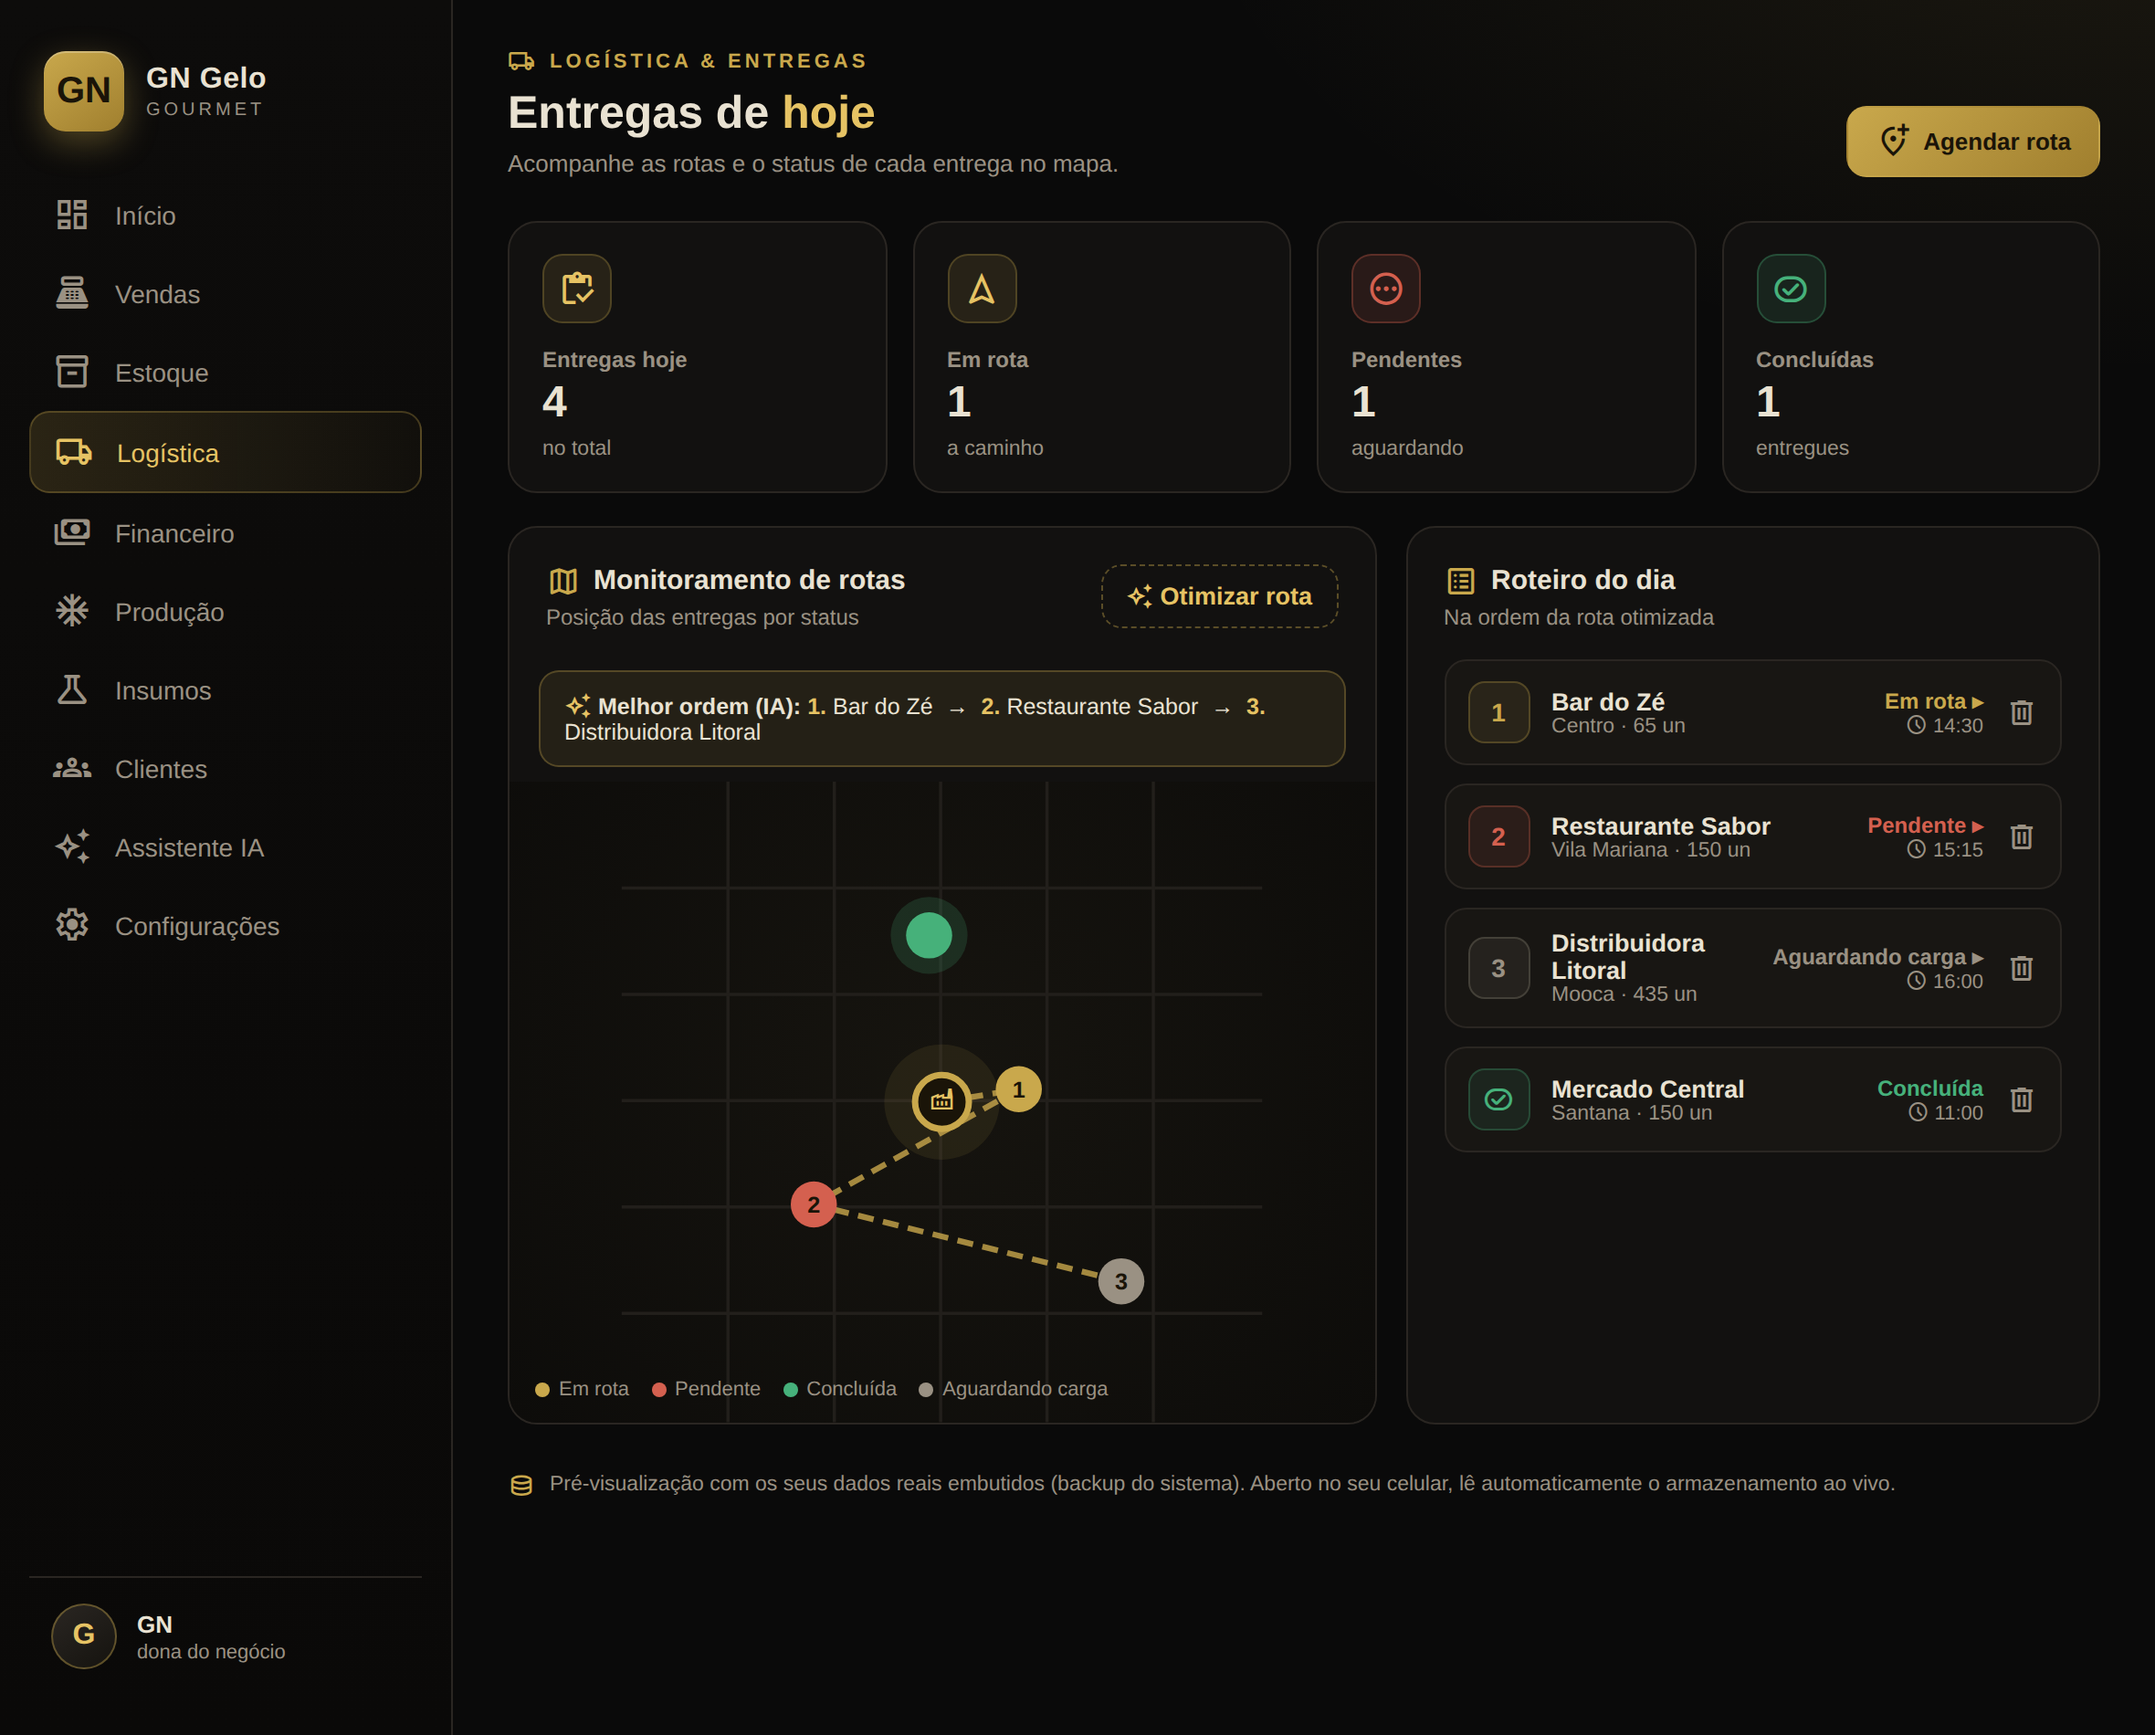
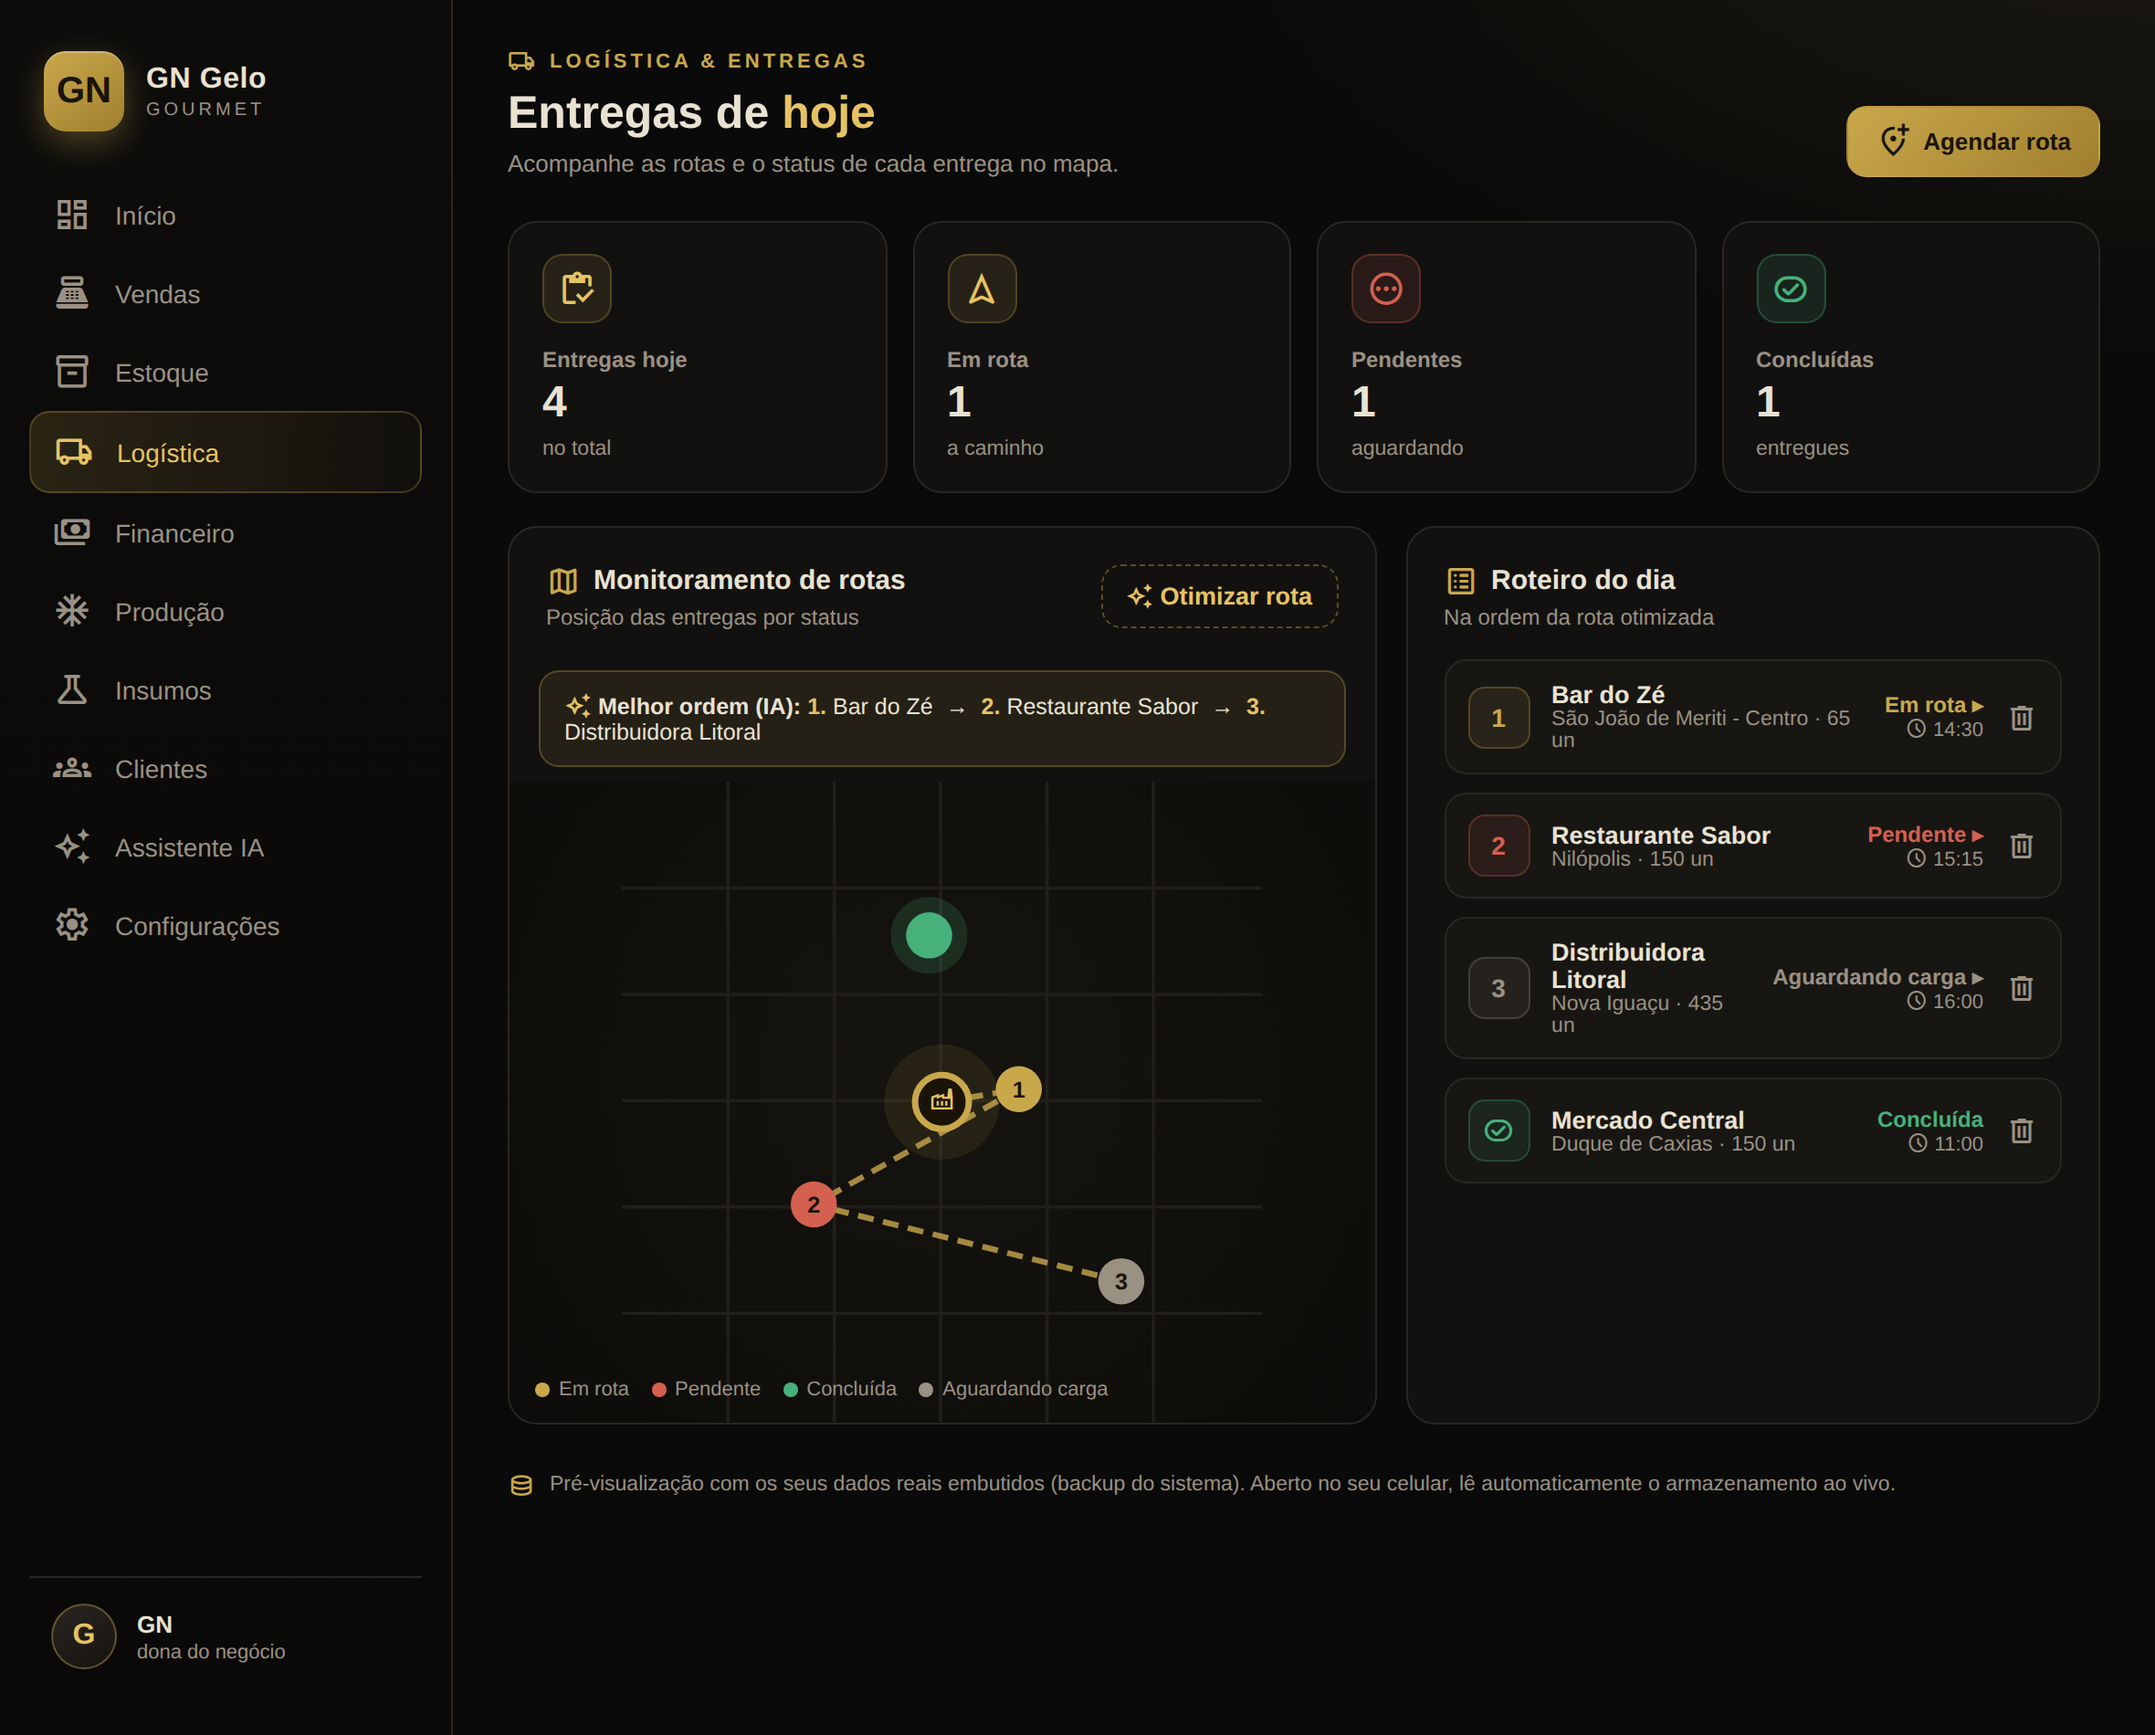
Deposito real: Rua Gama Cruz, Sao Joao de Meriti (RJ) + entregas exemplo na Baixada
- DEPOT_ADDR com o endereco do deposito do GN Gelo; geocodifica no aparelho na
  1a abertura (cacheado em gng_depotLL). Ponto inicial: Sao Joao de Meriti.
- Entregas de exemplo movidas para a regiao (Meriti, Nilopolis, Caxias, Nova Iguacu).

Claude-Session: https://claude.ai/code/session_01RocrFdSgqpqjfRy7x3VDmm

diff --git a/preview-dashboard-premium.html b/preview-dashboard-premium.html
@@ -669,10 +669,10 @@ const SEED={
   "Embalagens":{qtd:5500,un:"un",custoUnit:0.1600,forn:"Shoppe"}
  },
  entregas:[
-  {id:"#ORD-8942",cliente:"Bar do Zé",rota:"Centro",eta:"14:30",status:"Em rota",itens:65,x:62,y:48,lat:-23.5489,lng:-46.6388},
-  {id:"#ORD-8943",cliente:"Restaurante Sabor",rota:"Vila Mariana",eta:"15:15",status:"Pendente",itens:150,x:30,y:66,lat:-23.5893,lng:-46.6340},
-  {id:"#ORD-8945",cliente:"Mercado Central",rota:"Santana",eta:"11:00",status:"Concluída",itens:150,x:48,y:24,lat:-23.5060,lng:-46.6280},
-  {id:"#ORD-8946",cliente:"Distribuidora Litoral",rota:"Mooca",eta:"16:00",status:"Aguardando carga",itens:435,x:78,y:78,lat:-23.5580,lng:-46.5990}
+  {id:"#ORD-8942",cliente:"Bar do Zé",rota:"São João de Meriti - Centro",eta:"14:30",status:"Em rota",itens:65,x:62,y:48,lat:-22.8035,lng:-43.3720},
+  {id:"#ORD-8943",cliente:"Restaurante Sabor",rota:"Nilópolis",eta:"15:15",status:"Pendente",itens:150,x:30,y:66,lat:-22.8085,lng:-43.4140},
+  {id:"#ORD-8945",cliente:"Mercado Central",rota:"Duque de Caxias",eta:"11:00",status:"Concluída",itens:150,x:48,y:24,lat:-22.7850,lng:-43.3110},
+  {id:"#ORD-8946",cliente:"Distribuidora Litoral",rota:"Nova Iguaçu",eta:"16:00",status:"Aguardando carga",itens:435,x:78,y:78,lat:-22.7590,lng:-43.4510}
  ],
  equipe:[
   {nome:"GN (você)",email:"gn@gngelo.app",papel:"Administrador",area:"Dono(a)",status:"Ativo"},
@@ -1017,7 +1017,14 @@ const ST_COR={"Em rota":"#C9A84C","Pendente":"#d4604f","Concluída":"#46b17b","A
 const ST_IC={"Em rota":"navigation","Pendente":"pending","Concluída":"task_alt","Aguardando carga":"hourglass_top"};
 /* IA de rota: melhor ordem de entrega (vizinho mais próximo a partir do depósito) */
 var rotaOtim=null;
-var DEPOT=[-23.5505,-46.6333]; // local do depósito (ajustável); usado no mapa real
+// Depósito real do GN Gelo (geocodificado no aparelho na 1ª abertura)
+var DEPOT_ADDR="Rua Gama Cruz, Praça do Cruzeiro, São João de Meriti, RJ, 25571-220";
+var DEPOT=get("depotLL",null)||[-22.7956,-43.3729]; // ponto inicial: São João de Meriti
+async function ensureDepot(){
+  if(get("depotLL",null))return;            // já buscado antes
+  const g=await geocode(DEPOT_ADDR);
+  if(g){ DEPOT=g; set("depotLL",g); if(document.getElementById("view-logistica")) renderLogistica(); }
+}
 function _dist(a,b){ if(a.lat!=null&&b.lat!=null){const dx=a.lat-b.lat,dy=a.lng-b.lng;return dx*dx+dy*dy;} return (a.x-b.x)**2+(a.y-b.y)**2; }
 function otimizarRota(){
   const pend=getEnt().filter(e=>e.status!=="Concluída" && (e.x!=null||e.lat!=null));
@@ -1437,6 +1444,7 @@ document.querySelectorAll("nav a").forEach(a=>a.addEventListener("click",()=>sho
 render(); renderVendas(); renderEstoque(); renderLogistica(); renderFinanceiro(); renderProducao(); renderInsumos(); renderClientes(); renderIA(); renderConfig();
 const _qv=new URLSearchParams(location.search).get("v");
 if(_qv) show(_qv);
+ensureDepot(); // busca o endereço do depósito no aparelho (1ª vez)
 </script>
 </body>
 </html>
